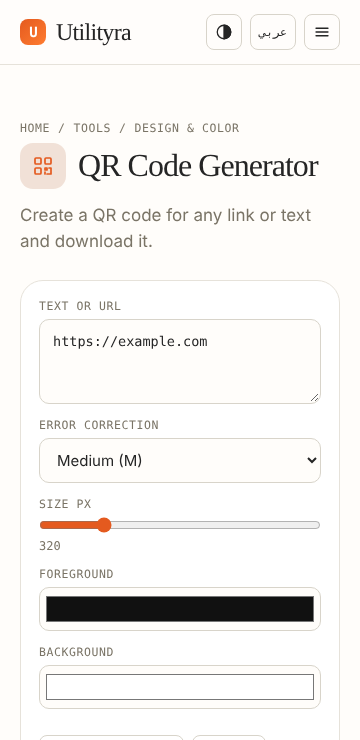
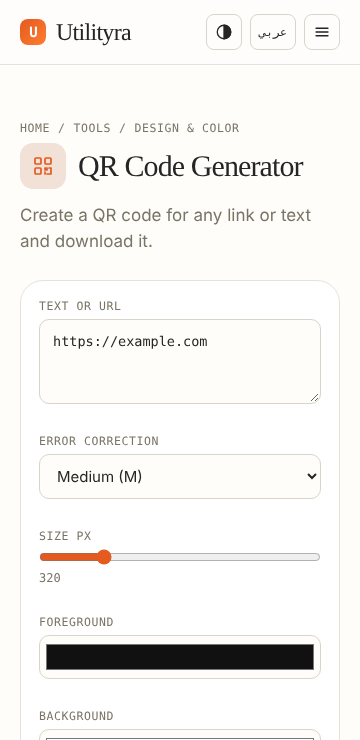
Design: unified type scale, centered admin login, footer typography; analytics skips owner/webdriver
Claude-Session: https://claude.ai/code/session_01XFyGnZQLbsRMmR5Q2gq1Am

diff --git a/src/assets/css/app.css b/src/assets/css/app.css
@@ -266,3 +266,22 @@ input[type="file"]::file-selector-button:hover { filter: brightness(1.08); }
 .ck { display: inline-flex; gap: 6px; align-items: center; font-size: 13.5px; }
 .bubble pre { overflow: auto; padding: 12px; padding-top: 30px; border-radius: 10px; background: var(--paper); direction: ltr; text-align: left; }
 @media (max-width: 380px) { .hdr .in { gap: 8px; } .hbtn { min-width: 36px; height: 36px; padding: 6px 8px; } }
+
+/* ---- Type scale v3: one consistent hierarchy; Arabic never uses mono/uppercase ---- */
+:root { --t-xs: 12.5px; --t-sm: 14px; --t-md: 16px; --t-lg: 18px; --t-h3: 19px; --t-h2: clamp(24px, 3vw, 32px); --t-h1: clamp(30px, 4.4vw, 46px); --gap: 16px; }
+html[lang="ar"] body { font-size: var(--t-md); line-height: 1.7; }
+html[lang="ar"] h1, html[lang="ar"] h2, html[lang="ar"] h3, html[lang="ar"] h4 { font-family: var(--sans); font-weight: 700; letter-spacing: 0; line-height: 1.35; }
+html[lang="ar"] .logo { font-family: var(--serif); }
+html[lang="ar"] .ftr-b, html[lang="ar"] .ftr-b *, html[lang="ar"] .ftr .mono, html[lang="ar"] .fb, html[lang="ar"] .fbot, html[lang="ar"] .fbot a, html[lang="ar"] .eyebrow, html[lang="ar"] .tcard .tag, html[lang="ar"] .rc-l, html[lang="ar"] .step i, html[lang="ar"] .how .n { font-family: var(--sans); text-transform: none; letter-spacing: 0; }
+h1 { font-size: var(--t-h1); } h2 { font-size: var(--t-h2); } h3 { font-size: var(--t-h3); }
+.hero h1 { font-size: clamp(34px, 5.4vw, 60px); }
+.tool-page h1, .ttl h1 { font-size: var(--t-h1); }
+.tcard h3, .ccat h3 { font-size: var(--t-md); } .tcard p, .ccat p { font-size: var(--t-sm); color: var(--muted); }
+.panel h2 { font-size: var(--t-h3); margin: 0 0 var(--gap); }
+.panel .fld + .fld, .panel form > .btn, .panel form > button, .panel .fld + .btn { margin-top: var(--gap); }
+#lf { display: flex; flex-direction: column; gap: var(--gap); } #lf .btn { align-self: flex-start; min-width: 120px; justify-content: center; } #lf h2 { margin: 0; }
+.tool-status { font-size: var(--t-sm); line-height: 1.6; margin: 0; }
+.stat .v, .kpi .v { font-size: 28px; font-weight: 700; } .stat .l, .kpi .l { font-size: var(--t-xs); color: var(--muted); }
+.copy, .copy span, .copy a { font-family: var(--sans); text-transform: none; letter-spacing: 0; font-size: var(--t-xs); }
+html[lang="ar"] .copy, html[lang="ar"] .copy * { font-family: var(--sans); }
+#lf { margin-inline: auto; max-width: 440px; width: 100%; }

diff --git a/docs/test-logs/e2e-latest.md b/docs/test-logs/e2e-latest.md
@@ -1,6 +1,6 @@
 # E2E test log
 
-Generated: 2026-10-24T19:32:01.822Z
+Generated: 2026-10-24T19:58:42.602Z
 
 **295/295 passed**, 0 failed.
 
